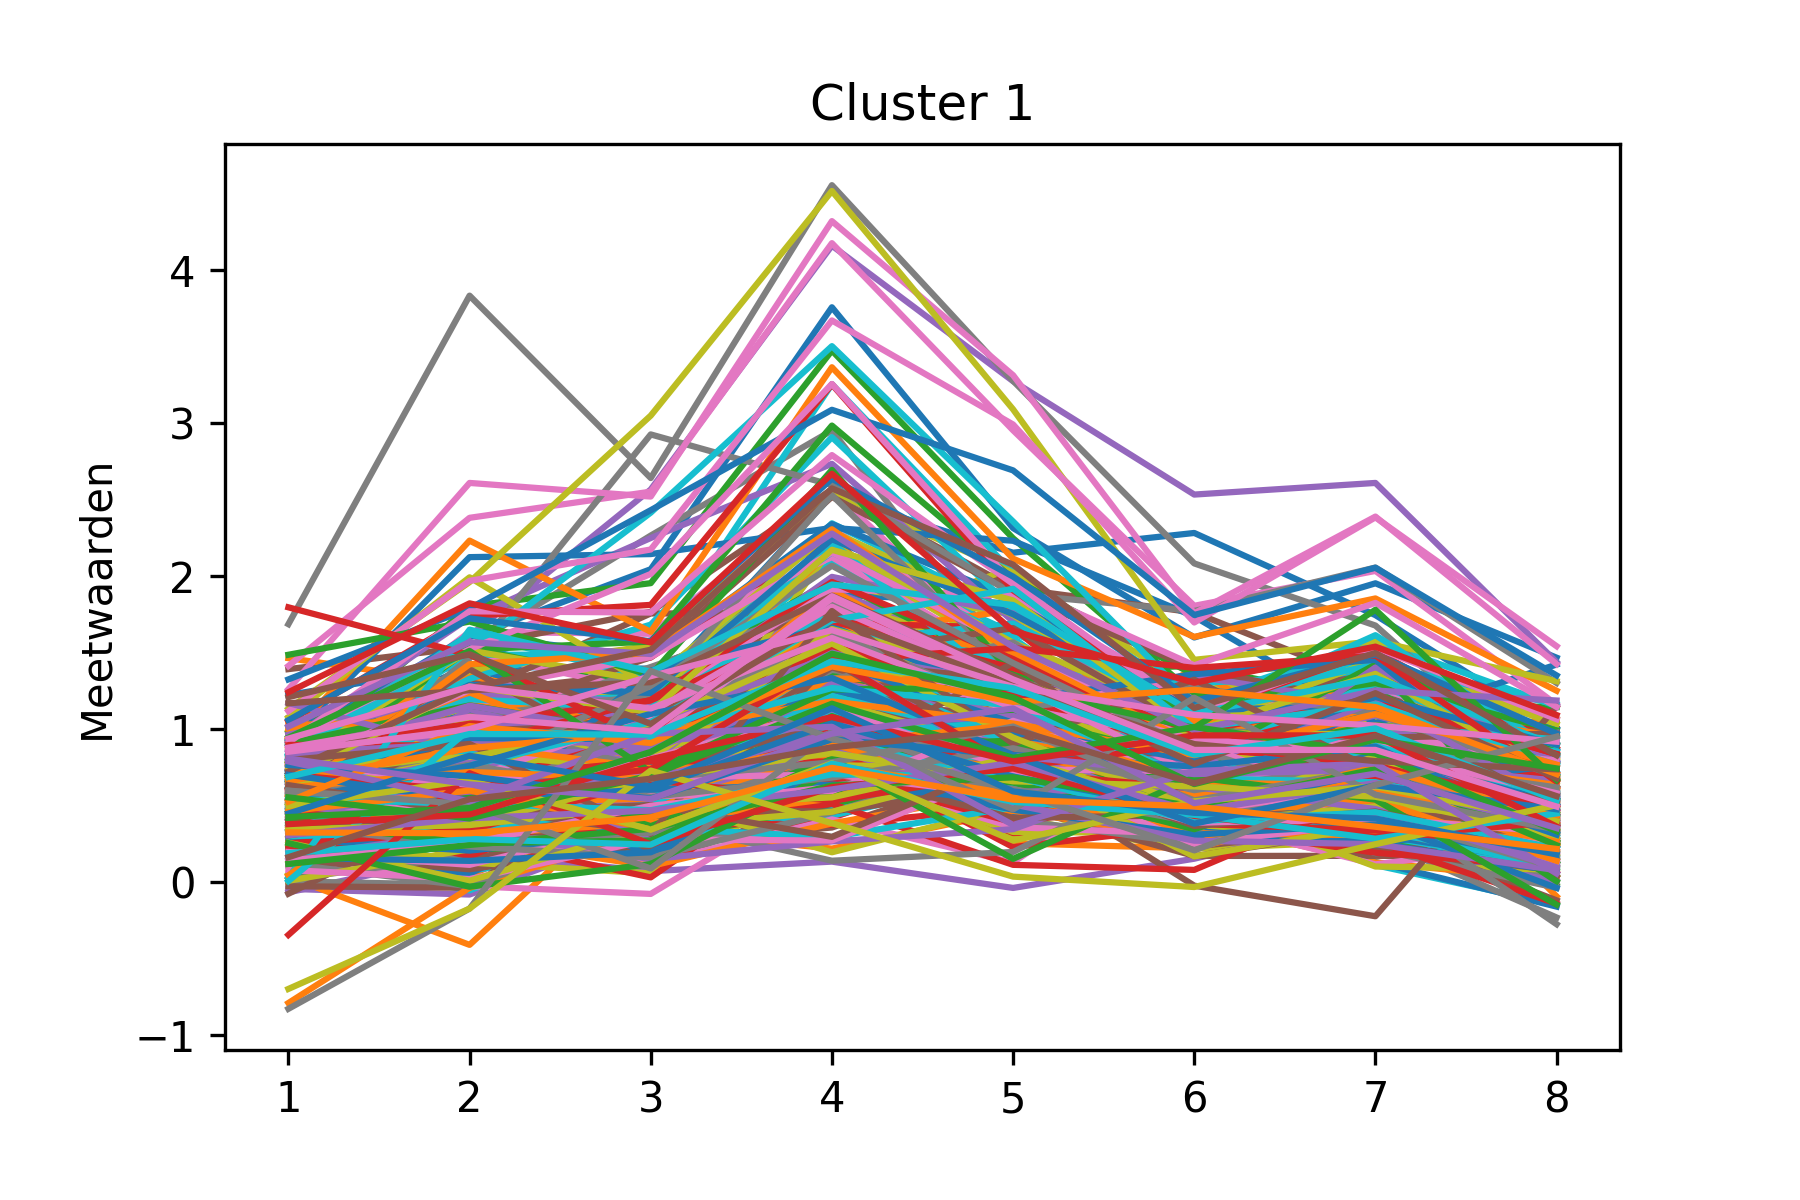
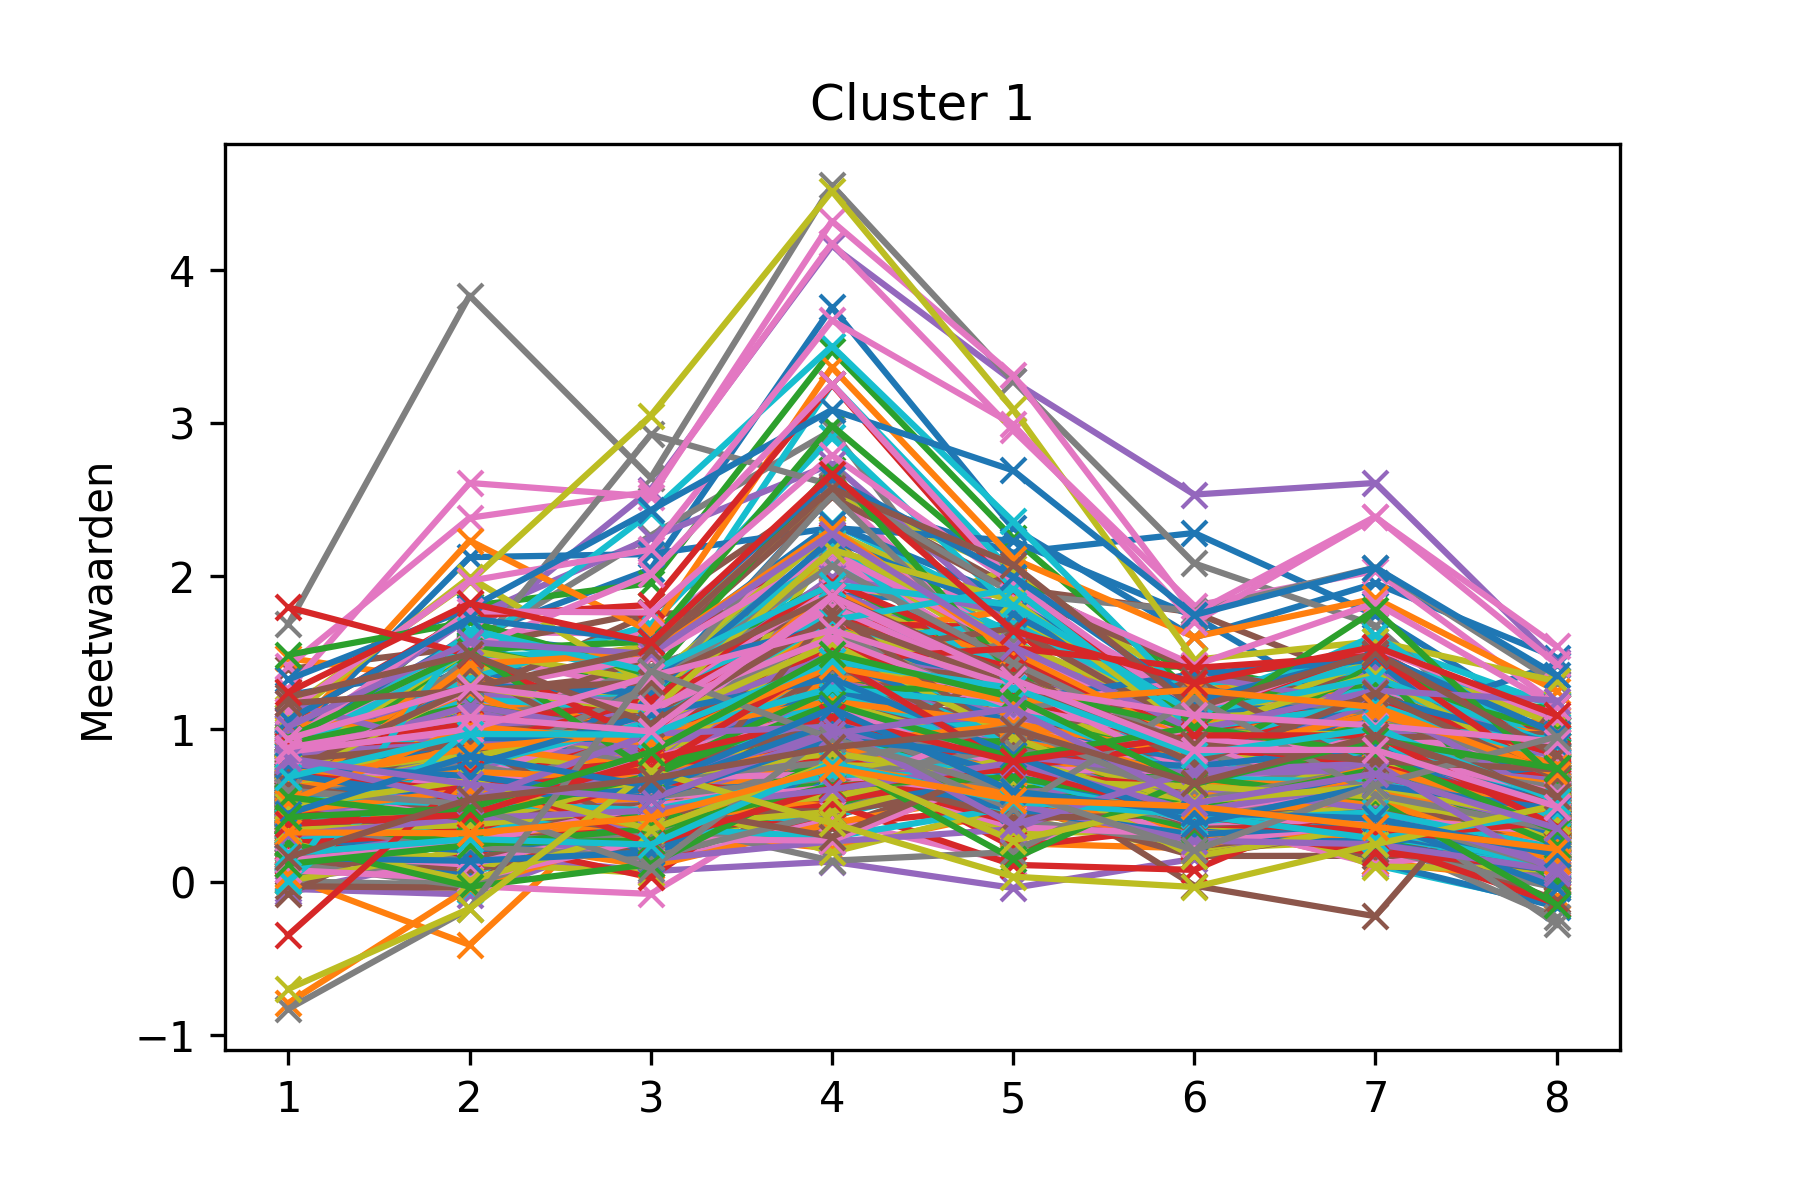
Aanpassingen feedback fase 2

diff --git a/expressie_clusters.py b/expressie_clusters.py
@@ -32,28 +32,19 @@ def expressie(cluster_invoer, cluster_uitvoer, cluster_nummer=0):
     # variable 'cluster_invoer'.
 
     with open(cluster_invoer) as cluster_invoer:
-        cluster_invoer = cluster_invoer.readlines()
+        cluster_invoer_data = cluster_invoer.read().split()
 
     # Inlezen van 'cluster_uitvoer' en
     # rauwe data uit 'cluster_uitvoer' toewijzen aan
     # variable 'cluster_uitvoer'.
 
     with open(cluster_resultaat) as cluster_uitvoer:
-        cluster_uitvoer = cluster_uitvoer.readlines()
-
-    # lijst aanmaken genaamd 'cluster_invoer_data' met per cloneID de
-    # corresponderende expressiewaarden.
-
-    cluster_invoer_data = [item for sublijst in [
-        regel.strip().split() for regel in cluster_invoer]
-        for item in sublijst]
+        cluster_uitvoer = cluster_uitvoer.read().split()
 
     # lijst aanmaken genaamd 'cluster_uitvoer_data' met per cloneID de
     # corresponderende clusters.
 
-    cluster_uitvoer_data = [int(nummer) for nummer in [item for sublijst in [
-        regel.strip().split() for regel in cluster_uitvoer]
-        for item in sublijst]]
+    cluster_uitvoer_data = [int(nummer) for nummer in cluster_uitvoer]
 
     # lijst aanmaken genaamd 'cloneID_lijst' met alle cloneIDs op volgorde die
     # is aangeleverd in 'cluster_invoer_data'.
@@ -71,8 +62,8 @@ def expressie(cluster_invoer, cluster_uitvoer, cluster_nummer=0):
     # lijst aanmaken genaamd 'cluster_lijst' en cloneIDs_lijst die de
     # clusters en cloneIDs bevatten, respectievelijk.
 
-    cluster_lijst = [int(regel) for regel in cluster_uitvoer_data[1::2]]
-    cloneIDs_lijst = [int(regel) for regel in cluster_uitvoer_data[0::2]]
+    cluster_lijst = [regel for regel in cluster_uitvoer_data[1::2]]
+    cloneIDs_lijst = [regel for regel in cluster_uitvoer_data[0::2]]
 
     # lege dictionary aanmaken genaamd 'cloneID_dict'
 
@@ -97,7 +88,7 @@ def expressie(cluster_invoer, cluster_uitvoer, cluster_nummer=0):
 
     for nummer in cloneID_dict[cluster_nummer]:
         ind = cluster_invoer_data.index(nummer)
-        plt.plot(x_axis, cluster_invoer_data[ind+1:ind+9])
+        plt.plot(x_axis, cluster_invoer_data[ind+1:ind+9], '-x')
 
     plt.ylabel("Meetwaarden")
     plt.title("Cluster" + " " + str(cluster_nummer))
@@ -116,6 +107,7 @@ def expressie(cluster_invoer, cluster_uitvoer, cluster_nummer=0):
 cluster_invoer = "Data/Voorbeeld_clusterdata.txt"
 cluster_resultaat = "Data/Voorbeeld_clusterresult.txt"
 
+# aanroepen van functie expressie() voor alle 6 clusters range(6)
 
 for i in range(6):
     expressie(cluster_invoer, cluster_resultaat, i)
